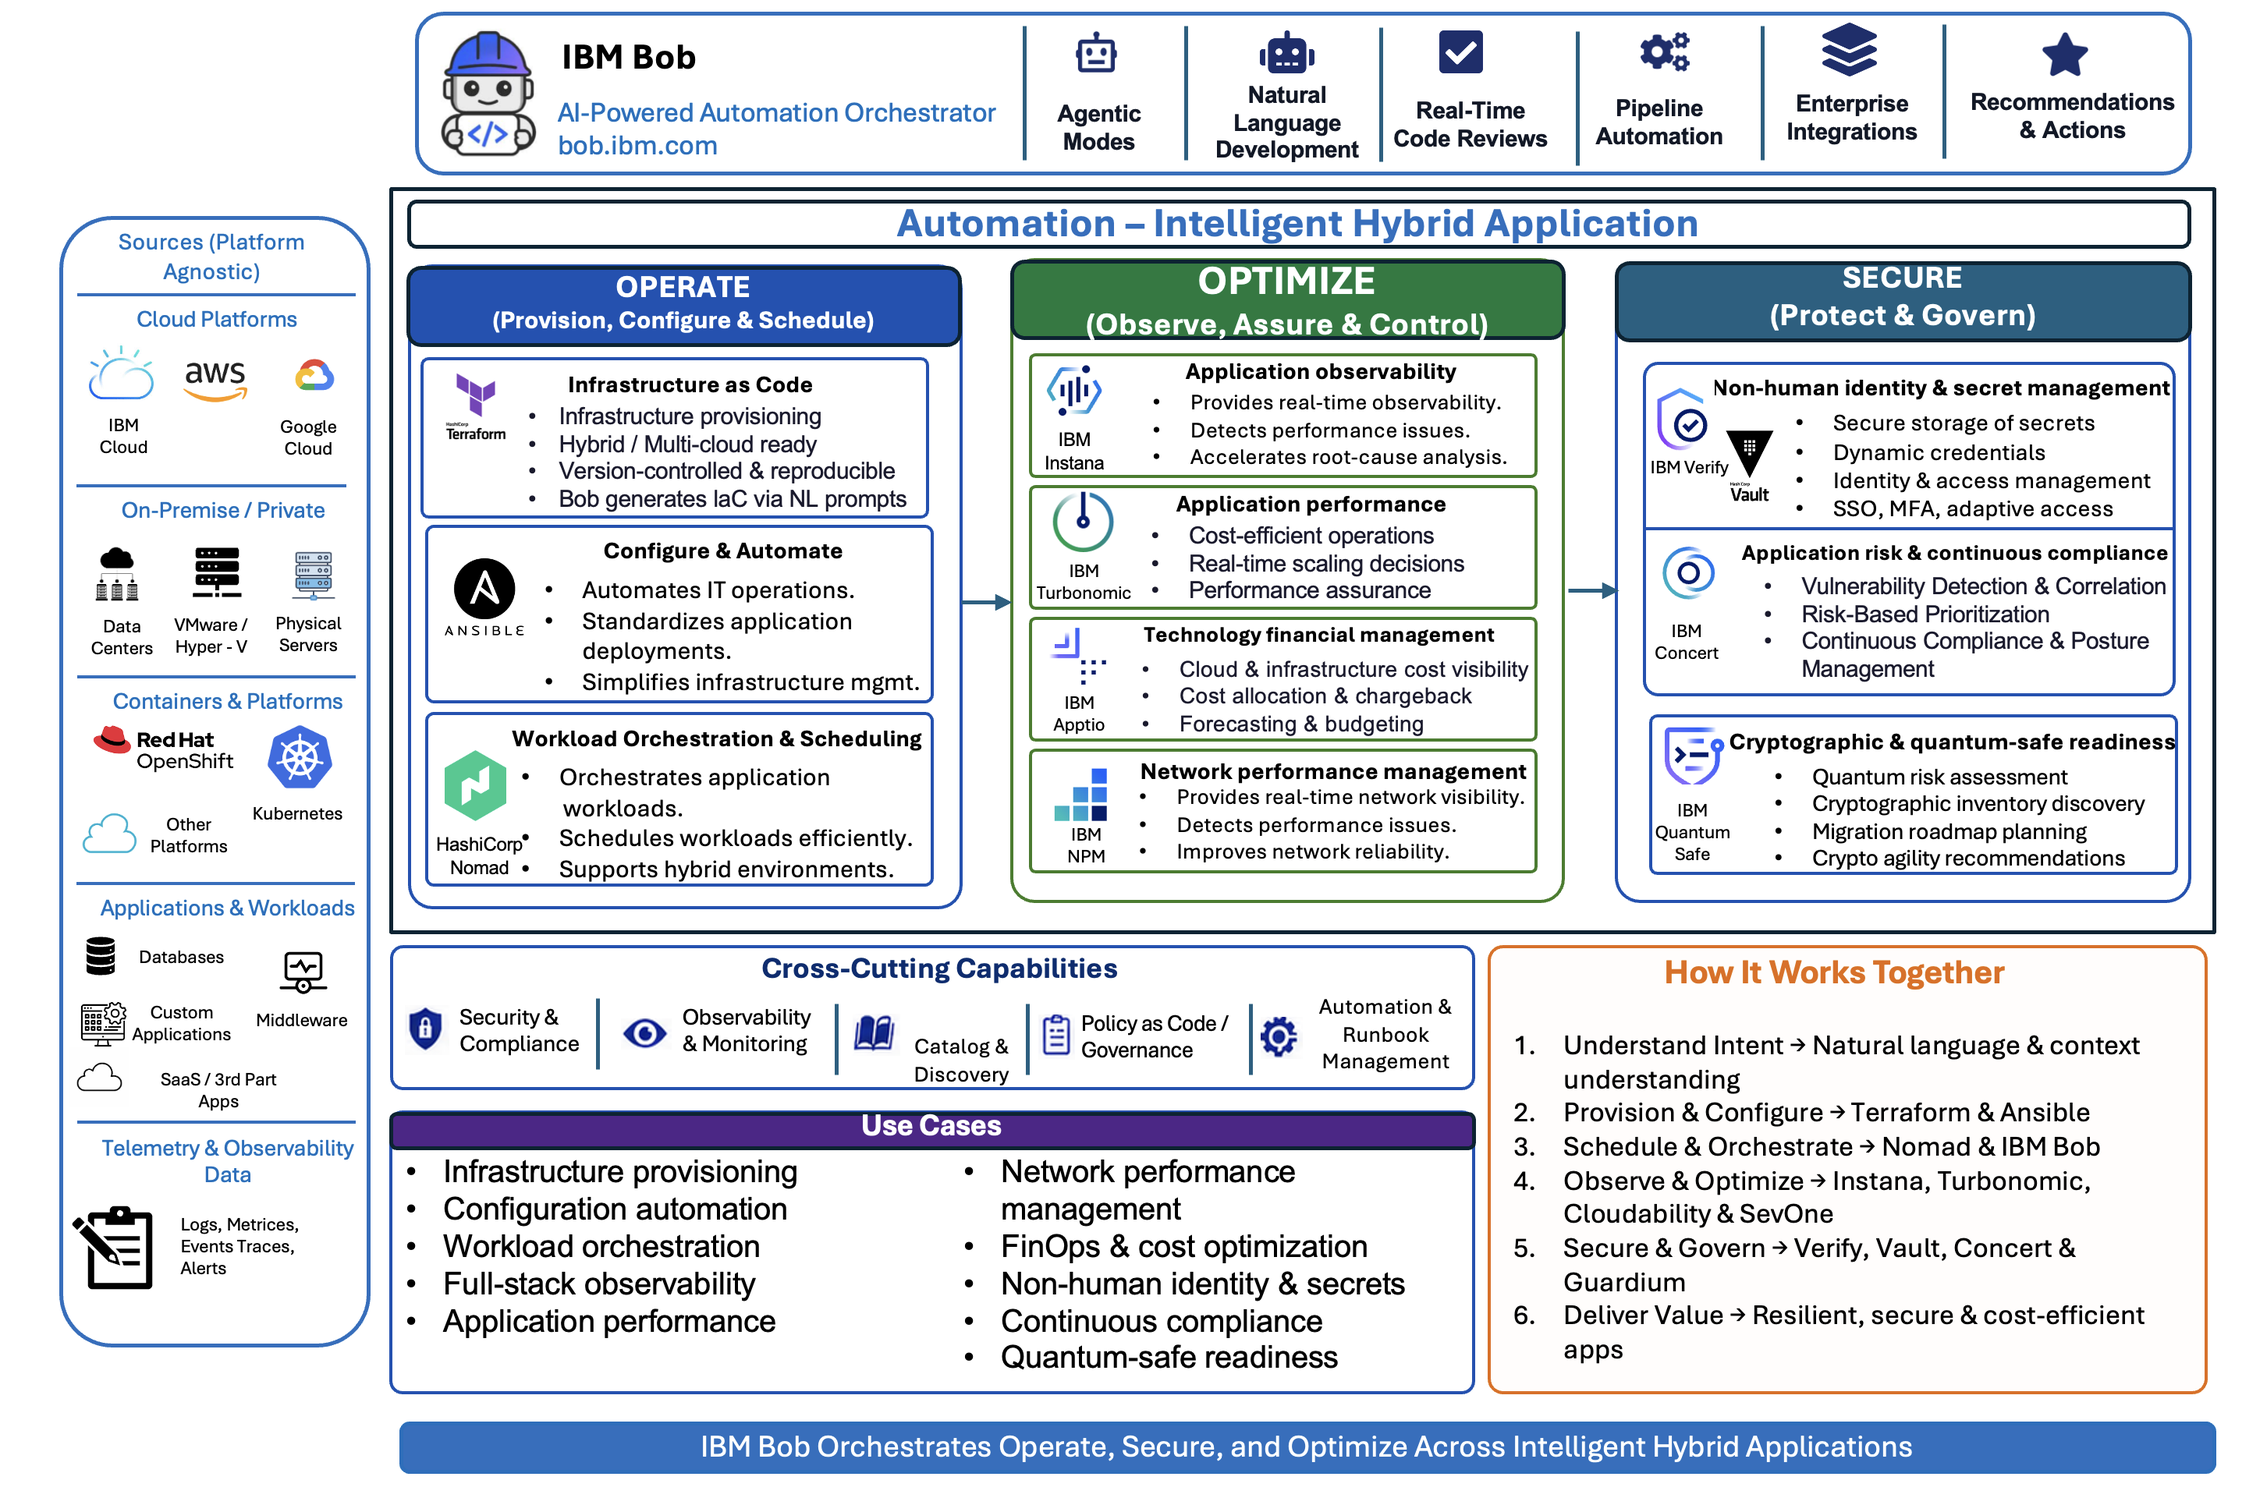
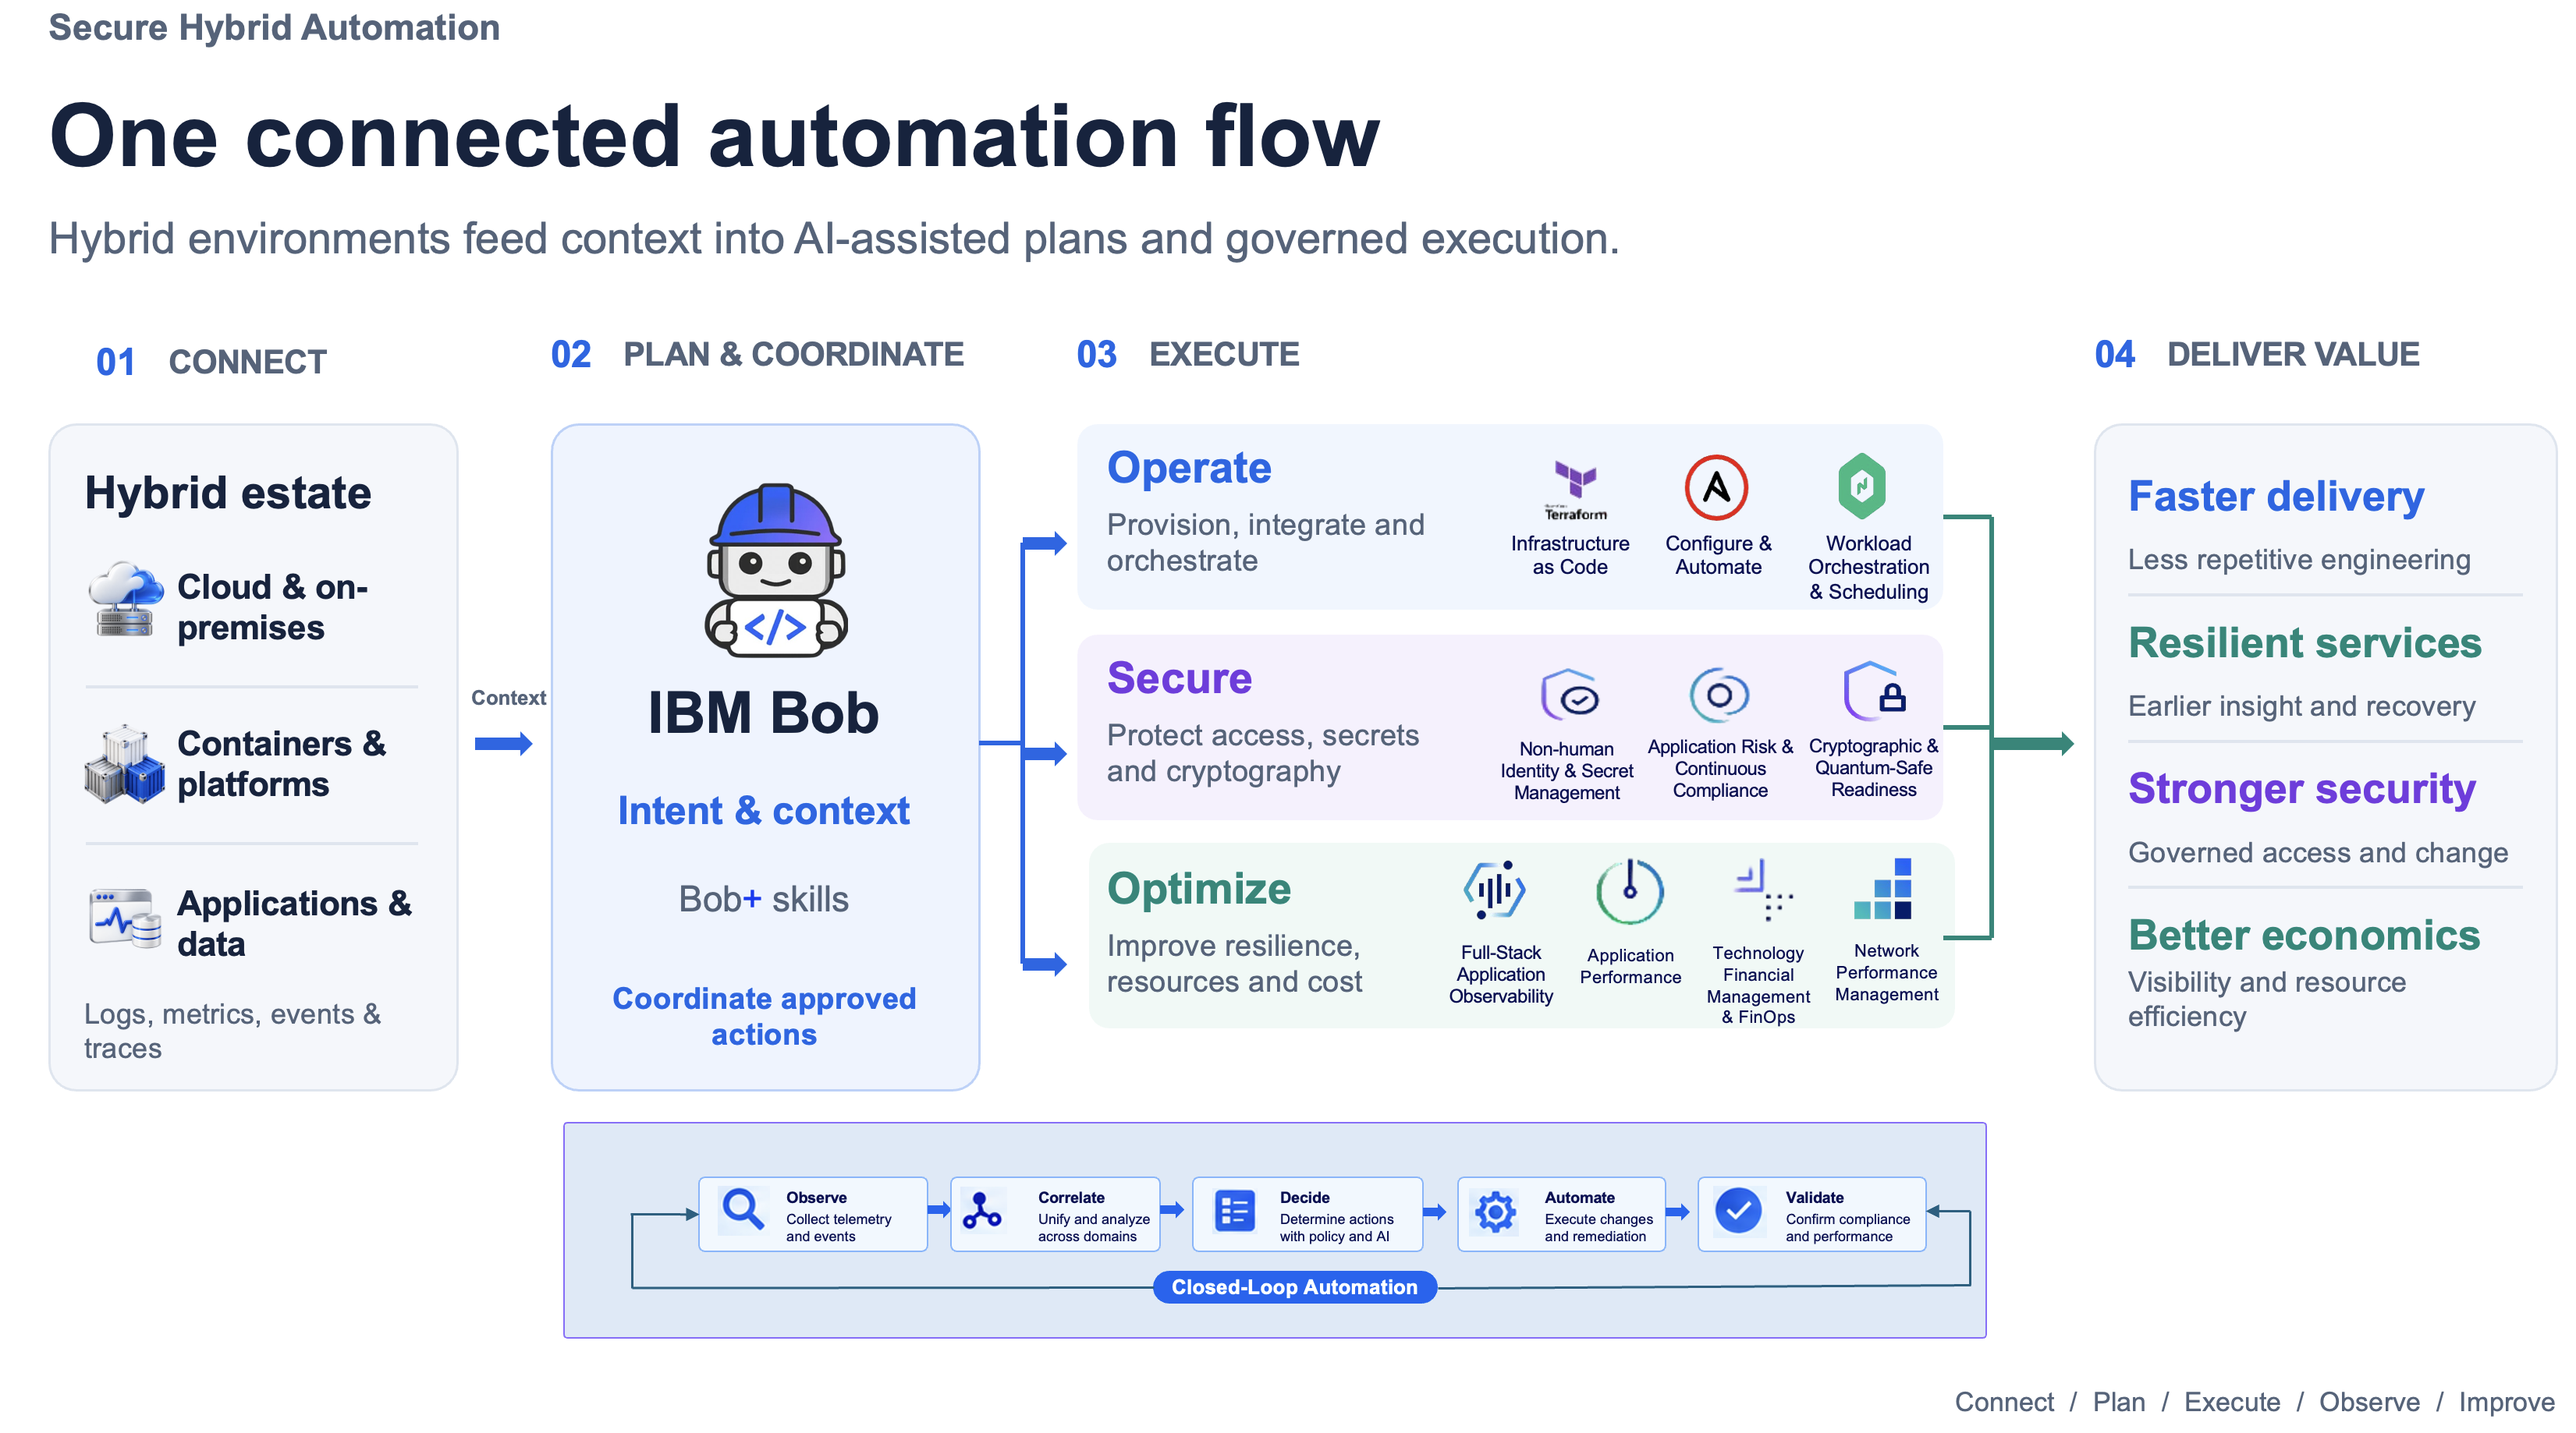
Updating automation based on latest changes

diff --git a/docs-src/automation-core/operate/index.md b/docs-src/automation-core/operate/index.md
@@ -1,6 +1,6 @@
 # **Operate**
 
-Operate focuses on provisioning, configuring, and scheduling the infrastructure and workloads that power intelligent hybrid applications. This building block enables organizations to automate infrastructure lifecycle management, enforce consistent configuration at scale, and orchestrate dynamic workloads—reducing manual toil and creating repeatable, auditable delivery pipelines across hybrid cloud environments.
+Operate focuses on provisioning, configuring, and scheduling the infrastructure and workloads that power secure hybrid automation. This building block enables organizations to automate infrastructure lifecycle management, enforce consistent configuration at scale, and orchestrate dynamic workloads—reducing manual toil and creating repeatable, auditable delivery pipelines across hybrid cloud environments.
 
 ## **Core Capabilities**
 

diff --git a/docs-src/automation-core/index.md b/docs-src/automation-core/index.md
@@ -1,8 +1,8 @@
-# Automation – Intelligent Hybrid Application
+# Automation – Secure Hybrid Automation
 
 **The Automation Building Blocks** provide a practical, composable foundation for **operating, securing, and optimizing** enterprise applications and infrastructure across hybrid cloud environments. The model is organized around three use-case groups: **Operate**, **Secure**, and **Optimize**.
 
-![Automation Core overview](images/automation.png)
+![Automation Core overview](images/automation.svg)
 
 !!! info "How to use this section"
     Start with the business outcome you need, then choose the smallest building block that solves it. The blocks are designed to work independently or together in an end-to-end automation and resilience architecture.

diff --git a/README.md b/README.md
@@ -42,7 +42,7 @@ The markdown files located in [docs-src](./docs-src) are used by Github Pages to
 
 ---
 
-### Automation – Intelligent Hybrid Application
+### Automation – Secure Hybrid Automation
 
 | Group | Building Block | Primary Products |
 |---|---|---|
